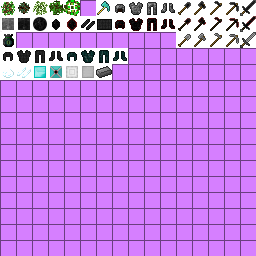
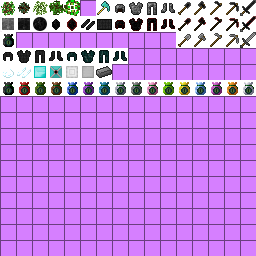
Added colored BoH, some tweaks

Changed region(s): [[0.0, 0.3125, 1.0, 0.375]]

diff --git a/boh/ItemBagOfHolding.java b/boh/ItemBagOfHolding.java
@@ -1,5 +1,7 @@
 package compactstuff.boh;
 
+import java.util.List;
+
 import net.minecraft.creativetab.CreativeTabs;
 import net.minecraft.entity.player.EntityPlayer;
 import net.minecraft.item.Item;
@@ -8,31 +10,50 @@ import net.minecraft.world.World;
 
 import compactstuff.ImageFiles;
 import compactstuff.CompactStuff;
+import cpw.mods.fml.relauncher.Side;
+import cpw.mods.fml.relauncher.SideOnly;
 
 public class ItemBagOfHolding extends Item {
+	public static final int[][] COLOR_CRAFTING = {
+		//      0,  1,  2,  3,  4,  5,  6,  7,  8,  9, 10, 11, 12, 13, 14, 15 },
+		{/*0*/ -1, -1, -1, -1, -1, -1, -1,  8,  0, -1, -1, -1, -1, -1, -1,  7 },
+		{/*1*/ -1, -1, -1, -1,  5,  1, -1, -1, -1,  1, -1, 14, -1, -1,  1,  9 },
+		{/*2*/ -1, -1, -1, -1,  6, -1,  2, -1, -1, -1,  2, -1, -1, -1, -1, 10 },
+		{/*3*/ -1, -1, -1, -1, -1, -1, -1, -1, -1, -1, -1, -1, -1, -1, -1,  3 },
+		{/*4*/ -1,  5,  6, -1, -1,  4,  4, -1, -1, -1, -1, -1,  4, -1, -1, 12 },
+		{/*5*/ -1, -1, -1, -1, -1, -1, -1, -1, -1, 13, -1, -1, -1,  5, -1,  5 },
+		{/*6*/ -1, -1, -1, -1, -1, -1, -1, -1, -1, -1, -1, -1, -1, -1, -1,  6 },
+		{/*7*/ -1, -1, -1, -1, -1, -1, -1, -1, -1, -1, -1, -1, -1, -1, -1,  7 },
+		{/*8*/ -1, -1, -1, -1, -1, -1, -1, -1, -1, -1, -1, -1, -1, -1, -1,  8 },
+		{/*9*/ -1, -1, -1, -1, -1, 13, -1, -1, -1, -1, -1, -1, -1,  9, -1,  9 },
+		{/*10*/-1, -1, -1, -1, -1, -1, -1, -1, -1, -1, -1, -1, -1, -1, -1, 10 },
+		{/*11*/-1, 14, -1, -1, -1, -1, -1, -1, -1, -1, -1, -1, -1, -1, 11, 11 },
+		{/*12*/-1, -1, -1, -1, -1, -1, -1, -1, -1, -1, -1, -1, -1, -1, -1, 12 },
+		{/*13*/-1, -1, -1, -1, -1, -1, -1, -1, -1, -1, -1, -1, -1, -1, -1, 13 },
+		{/*14*/-1, -1, -1, -1, -1, -1, -1, -1, -1, -1, -1, -1, -1, -1, -1, 14 },
+		{/*15*/ 8,  9, 10, 15, 12, 15, 15, 15,  7, 15, 15, 15, 15, 15, 15, -1 },
+	};
 	static int rows;
 	public ItemBagOfHolding(int id) {
 		super(id);
-		setIconIndex(32);
+		setHasSubtypes(true);
+		setIconIndex(80);
 		setMaxStackSize(1);
 		this.rows = 3;
 		this.setItemName("Bag of Holding");
 		this.setCreativeTab(CompactStuff.compactTab);
 	}
-	
-	/*@Override public boolean getShareTag() {
-		return true;
-	}*/
-	
+		
 	@Override public String getTextureFile() {
 		return ImageFiles.ITEMS.path;
 	}
-	
+	@Override public int getIconFromDamage(int meta) {
+		return 80+meta;
+	}	
 	@Override public ItemStack onItemRightClick(ItemStack thisStack, World world, EntityPlayer player) {
 		player.openGui(CompactStuff.instance, 2, world, (int)player.posX, (int)player.posY, (int)player.posZ);
 		return thisStack;
-	}
-	
+	}	
 	public static InventoryBagOfHolding getInventory(EntityPlayer player) {
 		InventoryBagOfHolding out = null;
 		ItemStack held = player.getHeldItem();
@@ -41,5 +62,10 @@ public class ItemBagOfHolding extends Item {
 		}
 		if(out==null) System.err.println("Bag of holding is null!");
 		return out;		
+	}	
+	@SideOnly(Side.CLIENT)
+	public void getSubItems(int id, CreativeTabs tab, List list) {
+		for(int meta=0; meta<16; meta++)
+			list.add(new ItemStack(id,1,meta));
 	}
 }

diff --git a/tools/CompactPick.java b/tools/CompactPick.java
@@ -19,6 +19,7 @@ import cpw.mods.fml.relauncher.Side;
 import cpw.mods.fml.relauncher.SideOnly;
 
 public class CompactPick extends ItemPickaxe {
+	private boolean okay=false;
 	public CompactPick(int id, EnumToolMaterial material, int icon) {
 		super(id,material);
 		this.setIconIndex(icon);
@@ -28,9 +29,12 @@ public class CompactPick extends ItemPickaxe {
 	@Override public boolean getIsRepairable(ItemStack thisOne, ItemStack otherOne) {
         return CompactTool.getIsRepairable(thisOne,otherOne,"Pick");
     }
-	@Override public boolean onBlockDestroyed(ItemStack thisStack, World world, int blockSlot, int x, int y, int z, EntityLiving holder) {
+	/*@Override public boolean onBlockDestroyed(ItemStack thisStack, World world, int blockSlot, int x, int y, int z, EntityLiving holder) {
 		if(thisStack.itemID!=CompactStuff.heatPick.itemID || !(holder instanceof EntityPlayer))
 			return super.onBlockDestroyed(thisStack, world, blockSlot, x, y, z, holder);
+		((CompactPick)thisStack.getItem()).okay=!((CompactPick)thisStack.getItem()).okay;
+		if(!okay) return false;
+		if(blockSlot==0 || Block.blocksList[blockSlot].getBlockHardness(world, x, y, z)==0) return true;
 		EntityPlayer player = (EntityPlayer)holder;
 		if(blockSlot==Block.oreIron.blockID || blockSlot==Block.oreGold.blockID || blockSlot==Block.stone.blockID) {
 			ItemStack origDrop = new ItemStack(
@@ -38,16 +42,22 @@ public class CompactPick extends ItemPickaxe {
 					Block.blocksList[blockSlot].quantityDropped(world.rand),
 					Block.blocksList[blockSlot].damageDropped(world.getBlockMetadata(x,y,z)));
 			EntityItem drop = new EntityItem(world, x, y, z,
-					FurnaceRecipes.smelting().getSmeltingResult(origDrop));
+					FurnaceRecipes.smelting().getSmeltingResult(origDrop)) {
+				@Override public void onUpdate() {
+					super.onUpdate();
+					System.out.println("ENTITYITEM age "+this.age+"/"+this.lifespan+"; "+this.posX+","+this.posY+","+this.posZ);
+				}
+			};
 			drop.delayBeforeCanPickup = 10;
 			world.setBlockAndMetadataWithNotify(x, y, z, 0, 0);
 			world.spawnEntityInWorld(drop);
-			System.out.println("Just dropped "+FurnaceRecipes.smelting().getSmeltingResult(origDrop).getDisplayName());
+			System.out.println("Just dropped "+FurnaceRecipes.smelting().getSmeltingResult(origDrop).getDisplayName()+
+					"; age "+drop.age+"/"+drop.lifespan);
 			thisStack.damageItem(1, player);
 			return true;
 		}
 		return super.onBlockDestroyed(thisStack, world, blockSlot, x, y, z, holder);
-	}
+	}*/
 	@SideOnly(Side.CLIENT)
 	@Override public void addInformation(ItemStack thisStack, EntityPlayer player, List list, boolean boo) {
 		if(thisStack.itemID!=CompactStuff.heatPick.itemID) return;

diff --git a/CompactStuff.java b/CompactStuff.java
@@ -433,13 +433,24 @@ public class CompactStuff {
 		}
 		
 		public void setUpBagOfHolding() {
-			ItemStack bag = new ItemStack(this.bagOfHolding);
+			ItemStack bag = new ItemStack(this.bagOfHolding,1,0);
 			LanguageRegistry.addName(bag, "Bag of Holding");
 			
 			GameRegistry.addRecipe(bag, "fef", "fnf", "fff",
 					'f', new ItemStack(this.carbon,1,6),
 					'e', new ItemStack(Item.emerald),
 					'n', new ItemStack(Item.eyeOfEnder));
+			
+			for(int bagMeta = 0; bagMeta<16; bagMeta++) {
+				for(int dyeMeta = 0; dyeMeta<16; dyeMeta++) {
+					int newbag = ItemBagOfHolding.COLOR_CRAFTING[dyeMeta][bagMeta];
+					if(newbag!=-1) {
+						GameRegistry.addShapelessRecipe(new ItemStack(this.bagOfHolding,1,newbag),
+							new ItemStack(this.bagOfHolding,1,bagMeta),
+							new ItemStack(Item.dyePowder,1,dyeMeta));
+					}
+				}
+			}
 		}
 		public void setUpTools() {
 			//setUpCobbleTools();

diff --git a/CompactTickHandler.java b/CompactTickHandler.java
@@ -19,6 +19,7 @@ import net.minecraft.entity.Entity;
 import net.minecraft.entity.EntityLiving;
 import net.minecraft.entity.monster.EntityMob;
 import net.minecraft.entity.monster.EntitySlime;
+import net.minecraft.entity.monster.EntityZombie;
 import net.minecraft.entity.player.EntityPlayer;
 import net.minecraft.item.ItemStack;
 import net.minecraft.server.MinecraftServer;
@@ -104,7 +105,7 @@ public class CompactTickHandler implements ITickHandler {
 					EntityPlayer p = (EntityPlayer)e;
 					if(p.getLastAttackingEntity()!=null && p.getLastAttackingEntity().equals(player)) {
 						p.attackEntityFrom(DamageSource.causePlayerDamage(player), (int)(2./3*dmg));
-						p.setLastAttackingEntity(new EntityZombie());
+						p.setLastAttackingEntity(new EntityZombie(p.worldObj));
 					}
 				} else if(e instanceof EntityMob) {
 					EntityPlayer attack = findPlayerToAttack((EntityMob)e);

diff --git a/ItemCompactArmor.java b/ItemCompactArmor.java
@@ -83,21 +83,20 @@ public class ItemCompactArmor extends ItemArmor implements IArmorTextureProvider
 		else if(id==wovnPants.itemID) list.add("Fire extinguishing");
 		else if(id==wovnBoots.itemID) list.add("No fall damage");
 		else if(id==pureHelmt.itemID) {
-			list.add("∞ water breathing");
-			list.add("∞ durability");
+			list.add("Infinite water breathing");
+			list.add("Infinite durability");
 		}
 		else if(id==purePlate.itemID) {
 			list.add("Force field to hostiles");
-			list.add("∞ durability");
+			list.add("Infinite durability");
 		}
 		else if(id==purePants.itemID) {
 			list.add("Fire immunity");
-			list.add("∞ durability");
+			list.add("Infinite durability");
 		}
 		else if(id==pureBoots.itemID) {
 			list.add("No fall damage");
-			list.add("Step over blocks");
-			list.add("∞ durability");
+			list.add("Infinite durability");
 		}
 	}
 }

diff --git a/Metas.java b/Metas.java
@@ -17,4 +17,22 @@ public final class Metas {
 		
 		
 		COMREDSTONE	= 15;
+	
+	public static final int
+		DYE_BLACK	= 0,
+		DYE_RED		= 1,
+		DYE_GREEN	= 2,
+		DYE_BROWN	= 3,
+		DYE_BLUE	= 4,
+		DYE_PURPLE	= 5,
+		DYE_CYAN	= 6,
+		DYE_LGRAY	= 7,
+		DYE_GRAY	= 8,
+		DYE_PINK	= 9,
+		DYE_LIME	= 10,
+		DYE_YELLOW	= 11,
+		DYE_LBLUE	= 12,
+		DYE_MAGENTA	= 13,
+		DYE_ORANGE	= 14,
+		DYE_WHITE	= 15;
 }

diff --git a/BlockCompressed.java b/BlockCompressed.java
@@ -61,6 +61,7 @@ public class BlockCompressed extends Block {
         	case Metas.COMREDSTONE:	return 5f;
         	case Metas.COMDIAMOND:	return 16f;
         	case Metas.COMIRON:		return 16f;
+        	case Metas.STEELBLOCK:	return 16f;
         	case Metas.COMSTEEL:	return 16f;
         	default: return 4f;
         }
